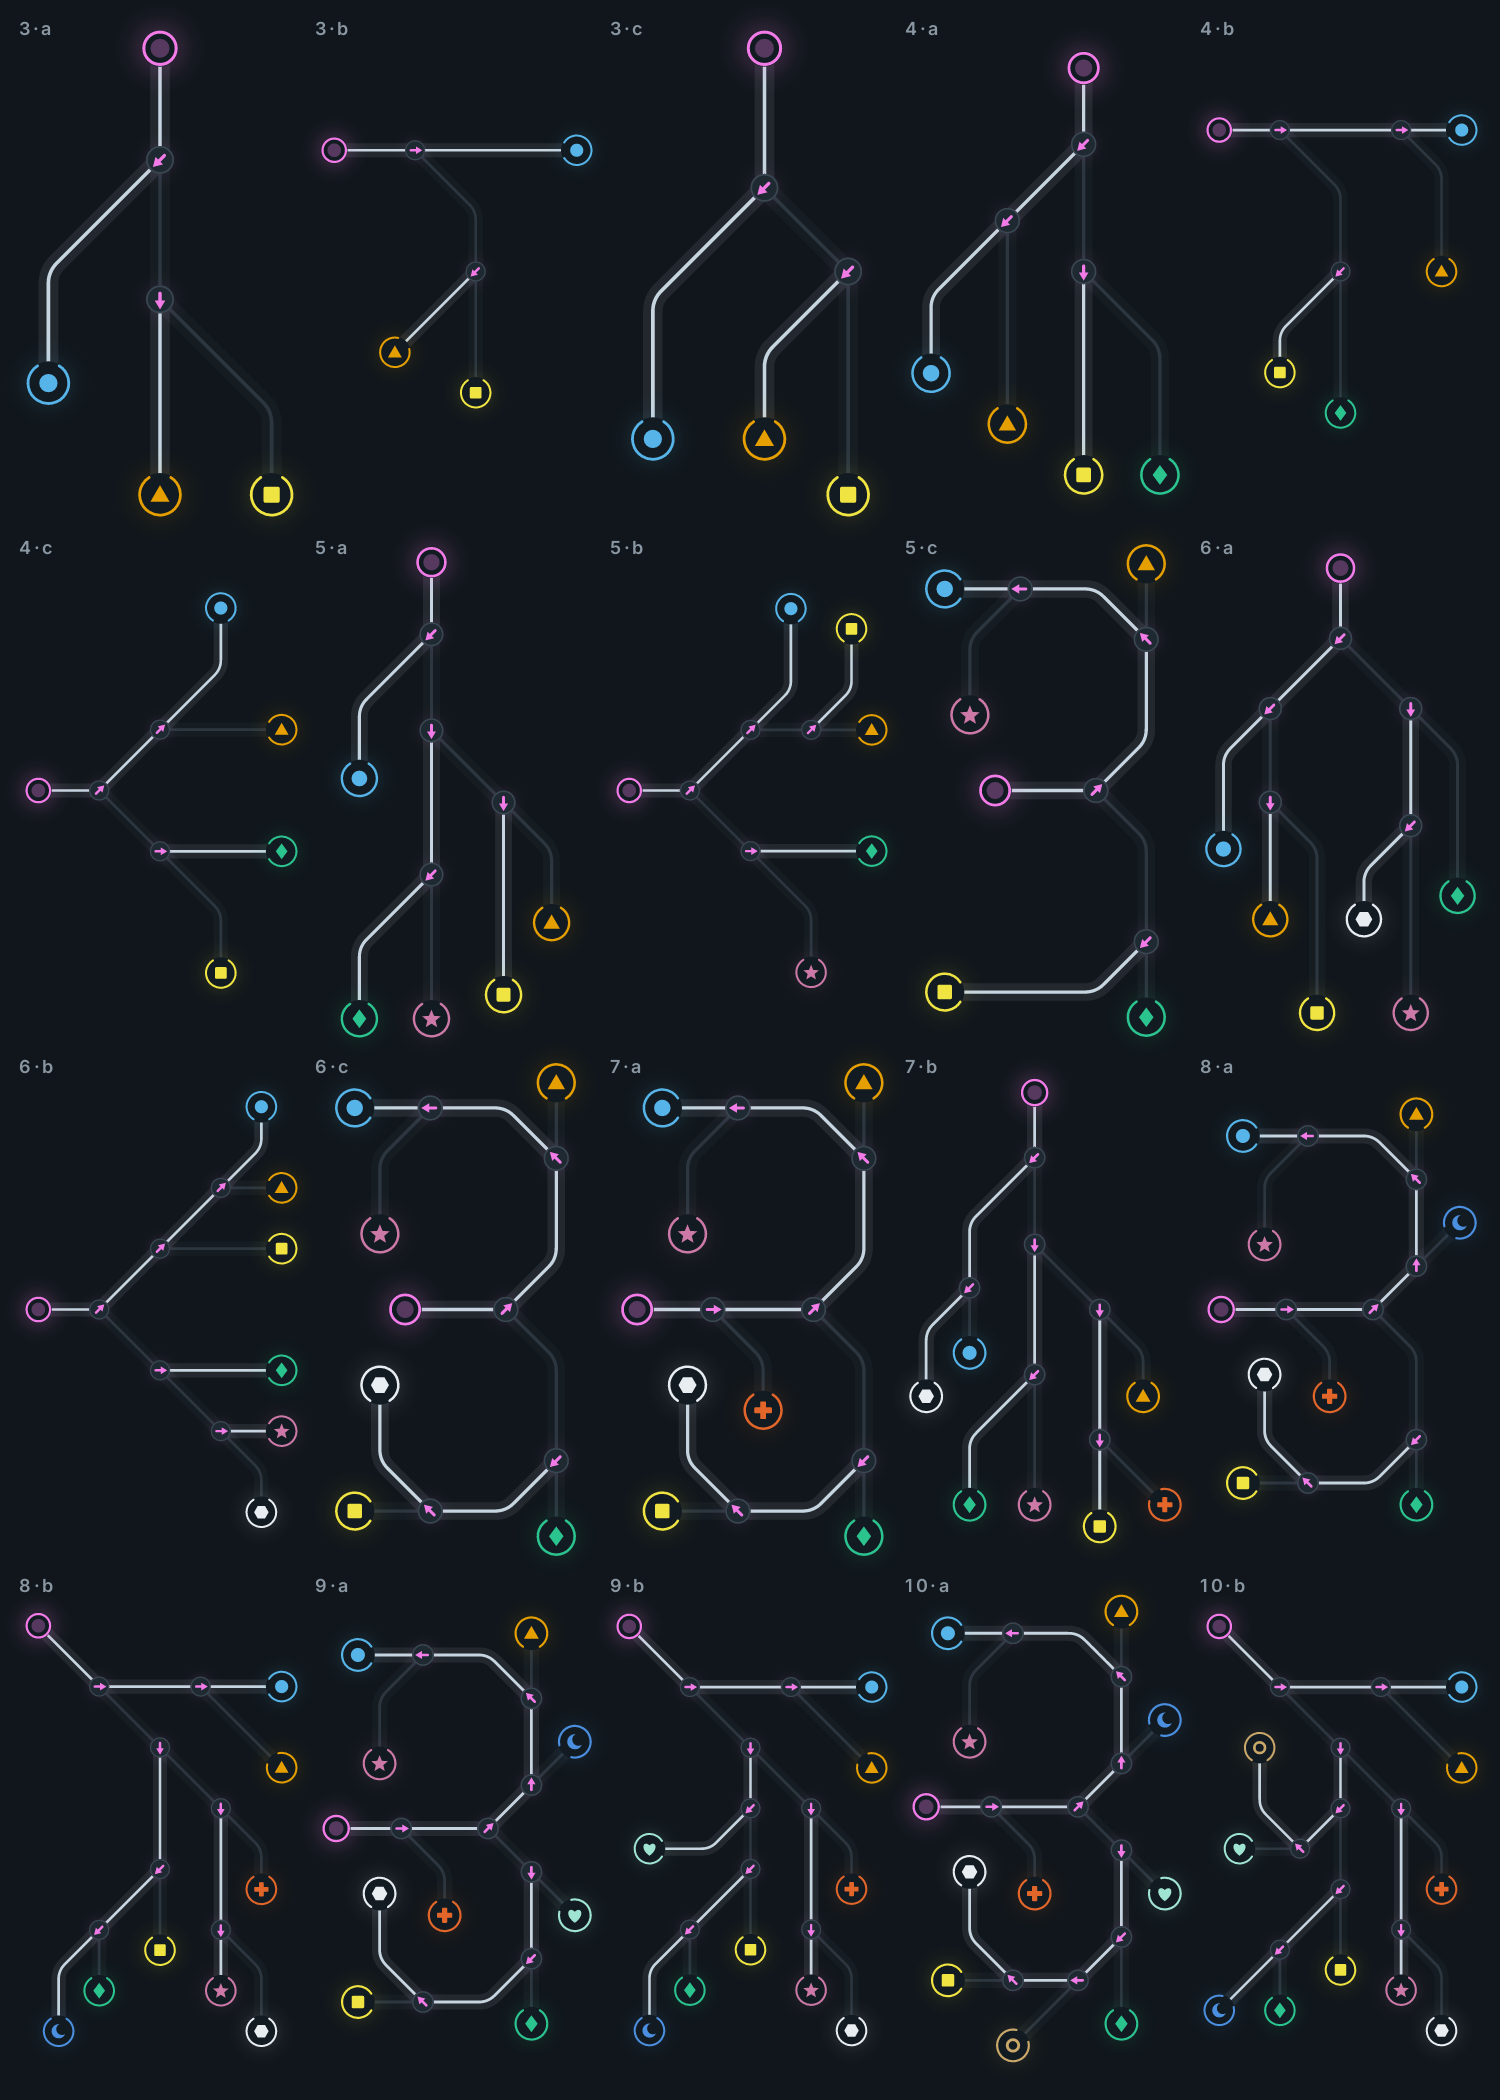
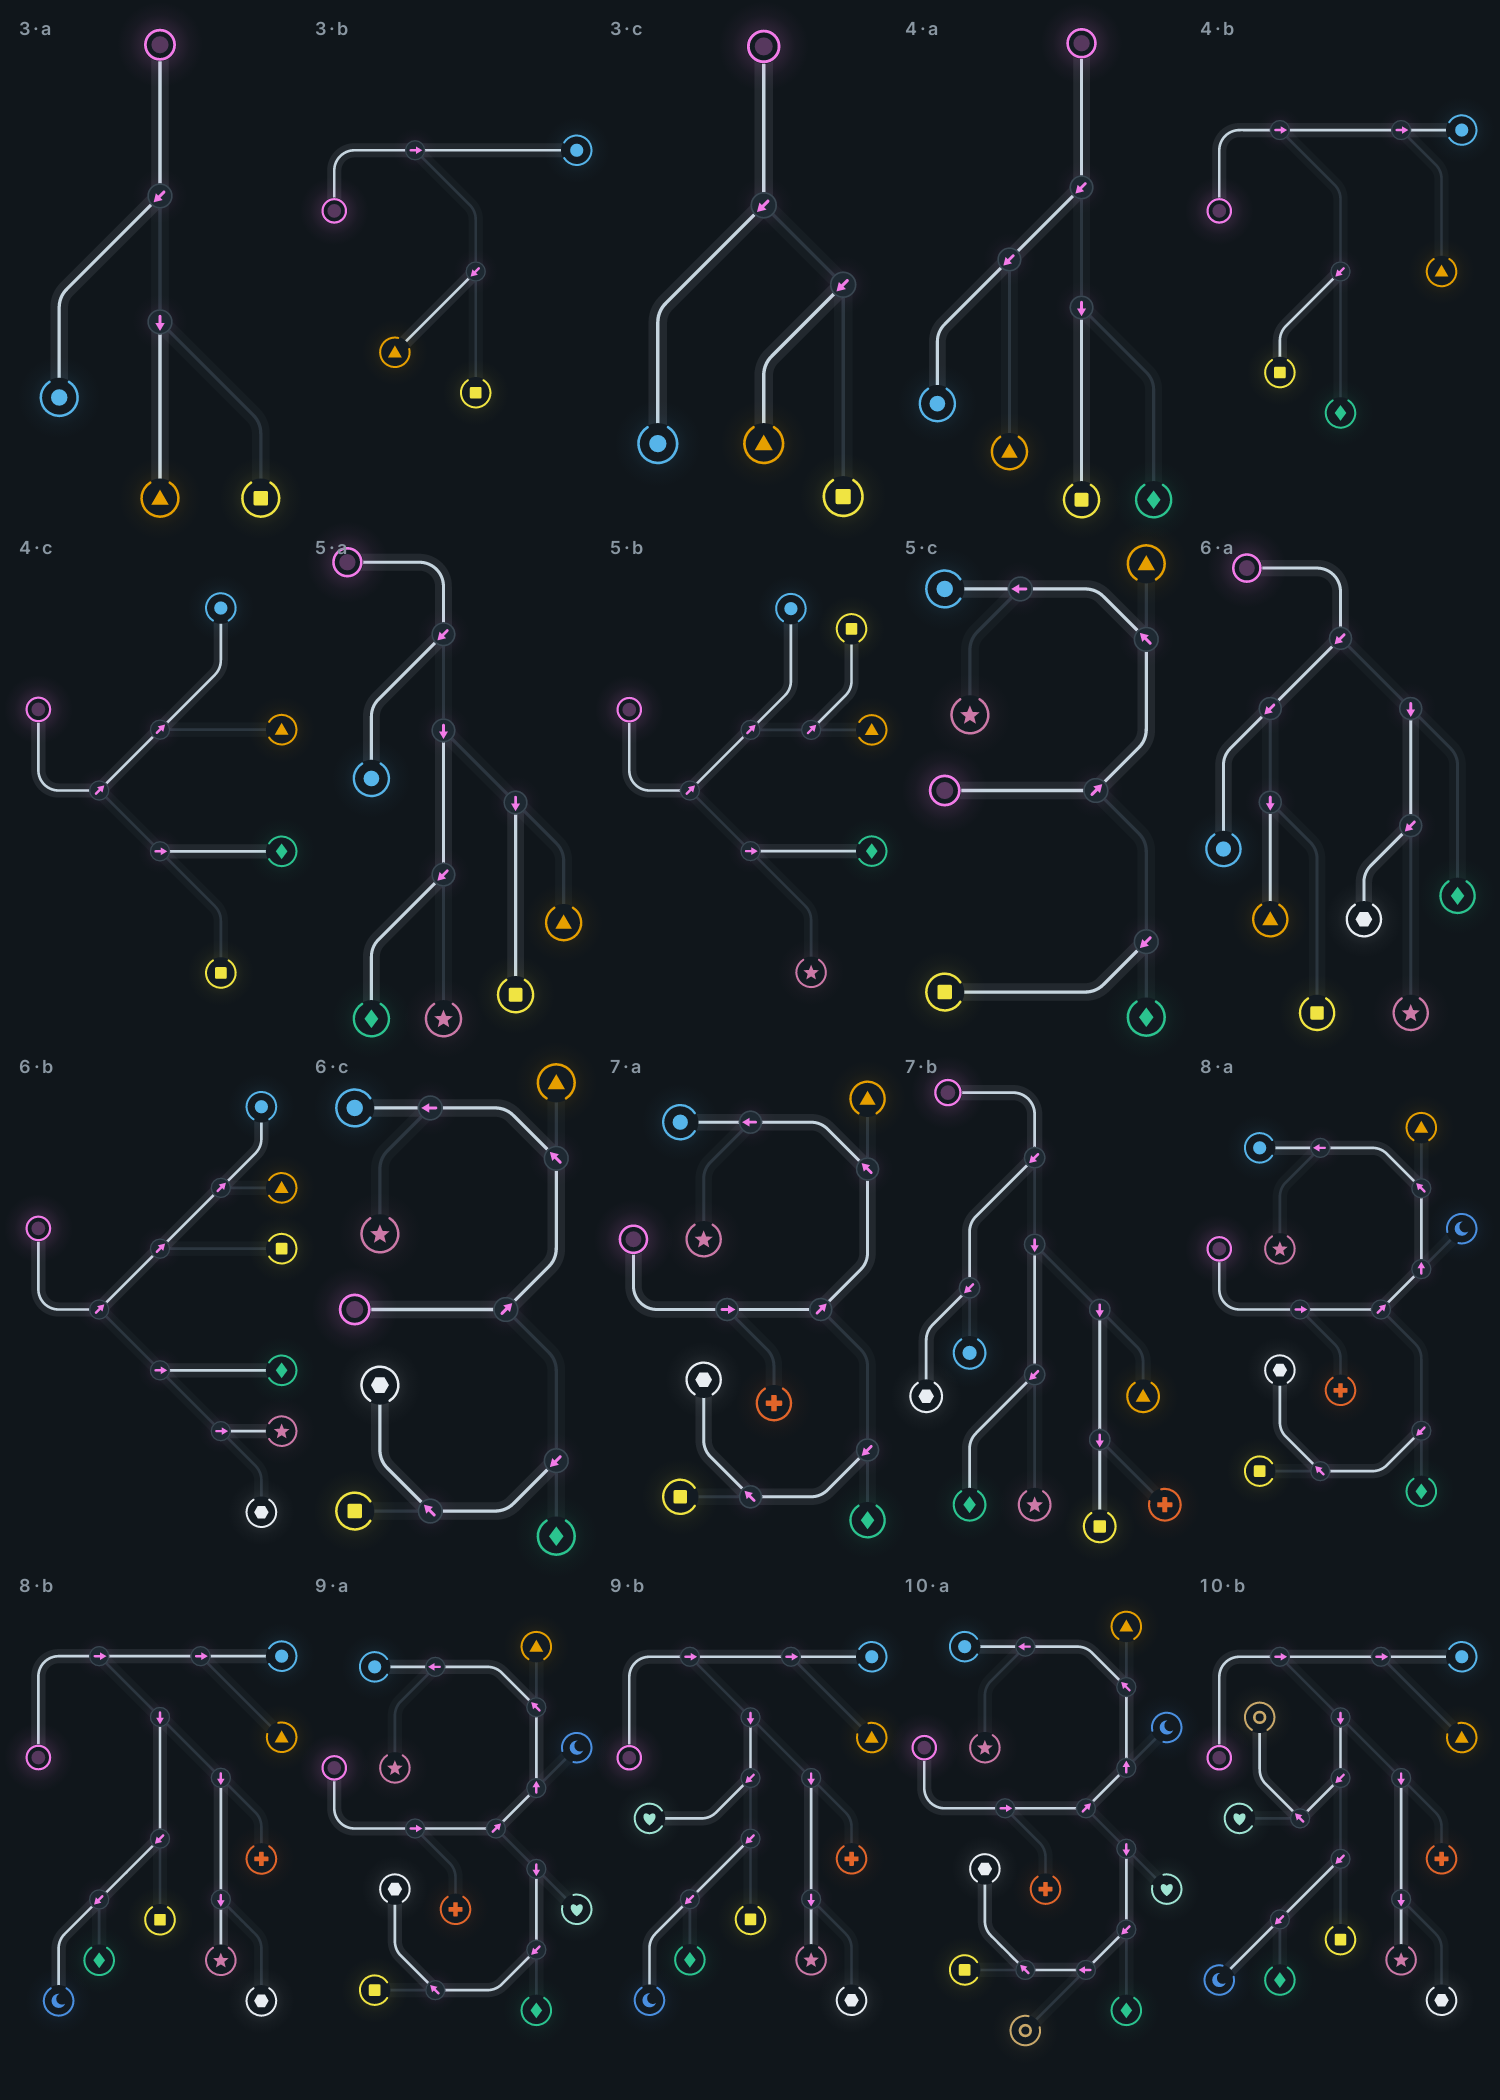
thinkr: Weichen mit Anlaufstrecke >= 6 Felder bis zur ersten Weiche

diff --git a/apps/thinkr/src/main/kotlin/solutions/xapient/thinkr/domain/switches/NetBook.kt b/apps/thinkr/src/main/kotlin/solutions/xapient/thinkr/domain/switches/NetBook.kt
@@ -10,6 +10,8 @@ object NetBook {
             ......|......
             ......|......
             ......|......
+            ......|......
+            ......|......
             ......S......
             ...../|......
             ..../.|......
@@ -26,10 +28,10 @@ object NetBook {
             """.trimIndent().lines(),
             // 3b
             """
-            P---S-------A
-            .....\.......
-            ......\......
-            .......o.....
+            o---S-------A
+            |....\.......
+            |.....\......
+            P......o.....
             .......|.....
             .......|.....
             .......S.....
@@ -43,6 +45,7 @@ object NetBook {
             // 3c
             """
             ......P......
+            ......|......
             ......|......
             ......|......
             ......|......
@@ -67,6 +70,9 @@ object NetBook {
             .......P.....
             .......|.....
             .......|.....
+            .......|.....
+            .......|.....
+            .......|.....
             .......S.....
             ....../|.....
             ...../.|.....
@@ -84,11 +90,11 @@ object NetBook {
             """.trimIndent().lines(),
             // 4b
             """
-            P--S-----S--A
-            ....\.....\..
-            .....\.....o.
-            ......o....|.
-            ......|....|.
+            o--S-----S--A
+            |...\.....\..
+            |....\.....o.
+            |.....o....|.
+            P.....|....|.
             ......|....|.
             ......|....|.
             ......S....B.
@@ -107,11 +113,11 @@ object NetBook {
             .........|...
             .........o...
             ......../....
-            ......./.....
-            ......S-----B
-            ...../.......
-            ..../........
-            P--S.........
+            P....../.....
+            |.....S-----B
+            |..../.......
+            |.../........
+            o--S.........
             ....\........
             .....\.......
             ......S-----D
@@ -126,7 +132,7 @@ object NetBook {
         5 to listOf(
             // 5a
             """
-            ......P......
+            ..P---o......
             ......|......
             ......|......
             ......S......
@@ -154,11 +160,11 @@ object NetBook {
             ........|..|.
             ........|..|.
             ........o..o.
-            ......./../..
-            ......S--S--B
-            ...../.......
-            ..../........
-            P--S.........
+            P....../../..
+            |.....S--S--B
+            |..../.......
+            |.../........
+            o--S.........
             ....\........
             .....\.......
             ......S-----D
@@ -180,7 +186,7 @@ object NetBook {
             ...E......|..
             ..........o..
             ........./...
-            ....P---S....
+            ..P-----S....
             .........\...
             ..........o..
             ..........|..
@@ -195,7 +201,7 @@ object NetBook {
         6 to listOf(
             // 6a
             """
-            ......P......
+            ..P---o......
             ......|......
             ......|......
             ......S......
@@ -224,11 +230,11 @@ object NetBook {
             ........../..
             .........S--B
             ......../....
-            ......./.....
-            ......S-----C
-            ...../.......
-            ..../........
-            P--S.........
+            P....../.....
+            |.....S-----C
+            |..../.......
+            |.../........
+            o--S.........
             ....\........
             .....\.......
             ......S-----D
@@ -251,7 +257,7 @@ object NetBook {
             ...E......|..
             ..........o..
             ........./...
-            ....P---S....
+            ..P-----S....
             .........\...
             ..........o..
             ...F......|..
@@ -272,10 +278,10 @@ object NetBook {
             ...o......S..
             ...|......|..
             ...|......|..
-            ...E......|..
-            ..........o..
-            ........./...
-            .P--S---S....
+            P..E......|..
+            |.........o..
+            |......../...
+            o---S---S....
             .....\...\...
             ......o...o..
             ...F..|...|..
@@ -288,7 +294,7 @@ object NetBook {
             """.trimIndent().lines(),
             // 7b
             """
-            ......P......
+            ..P---o......
             ......|......
             ......|......
             ......S......
@@ -320,10 +326,10 @@ object NetBook {
             ...o......S..
             ...|......|..
             ...|......|.H
-            ...E......|/.
-            ..........S..
-            ........./...
-            .P--S---S....
+            P..E......|/.
+            |.........S..
+            |......../...
+            o---S---S....
             .....\...\...
             ......o...o..
             ...F..|...|..
@@ -336,15 +342,12 @@ object NetBook {
             """.trimIndent().lines(),
             // 8b
             """
-            P............
-            .\...........
-            ..\..........
-            ...S----S---A
-            ....\....\...
-            .....\....\..
-            ......S....\.
-            ......|\....B
-            ......|.\....
+            o--S----S---A
+            |...\....\...
+            |....\....\..
+            |.....S....\.
+            |.....|\....B
+            P.....|.\....
             ......|..S...
             ......|..|\..
             ......|..|.o.
@@ -368,10 +371,10 @@ object NetBook {
             ...o......S..
             ...|......|..
             ...|......|.H
-            ...E......|/.
-            ..........S..
-            ........./...
-            .P--S---S....
+            P..E......|/.
+            |.........S..
+            |......../...
+            o---S---S....
             .....\...\...
             ......o...S..
             ...F..|...|\.
@@ -384,15 +387,12 @@ object NetBook {
             """.trimIndent().lines(),
             // 9b
             """
-            P............
-            .\...........
-            ..\..........
-            ...S----S---A
-            ....\....\...
-            .....\....\..
-            ......S....\.
-            ......|\....B
-            ......|.\....
+            o--S----S---A
+            |...\....\...
+            |....\....\..
+            |.....S....\.
+            |.....|\....B
+            P.....|.\....
             ......S..S...
             ...../|..|\..
             .I--o.|..|.o.
@@ -416,10 +416,10 @@ object NetBook {
             ...o......S..
             ...|......|..
             ...|......|.H
-            ...E......|/.
-            ..........S..
-            ........./...
-            .P--S---S....
+            P..E......|/.
+            |.........S..
+            |......../...
+            o---S---S....
             .....\...\...
             ......o...S..
             ...F..|...|\.
@@ -434,15 +434,12 @@ object NetBook {
             """.trimIndent().lines(),
             // 10b
             """
-            P............
-            .\...........
-            ..\..........
-            ...S----S---A
-            ....\....\...
-            .....\....\..
-            ..J...S....\.
-            ..|...|\....B
-            ..|...|.\....
+            o--S----S---A
+            |...\....\...
+            |....\....\..
+            |.J...S....\.
+            |.|...|\....B
+            P.|...|.\....
             ..o...S..S...
             ...\./|..|\..
             .I--S.|..|.o.

diff --git a/apps/thinkr/src/test/kotlin/solutions/xapient/thinkr/domain/switches/SwitchesGameTest.kt b/apps/thinkr/src/test/kotlin/solutions/xapient/thinkr/domain/switches/SwitchesGameTest.kt
@@ -90,6 +90,21 @@ class SwitchesGameTest {
         assertEquals(1.0 * SwitchesRules.speed(1), s.progress(b), 1e-6)
     }
 
+    // Fairness: von der Abfahrt bis zur ersten Weiche bleibt Zeit zum Schauen und Stellen, in jedem Netz jeder Stufe
+    @Test fun timeToFirstSwitch() {
+        for (level in 1..SwitchesRules.MAX_LEVEL) {
+            val speed = SwitchesGame.start(0, level, false).speed
+            val min = if (level == 1) 2_500.0 else 1_800.0
+            NetBook.plans.getValue(SwitchesRules.gates(level)).forEachIndexed { i, rows ->
+                for (v in 0 until NetBook.VARIANTS) {
+                    val net = Net.parse(rows, v)
+                    val ms = net.edges[net.portalEdge].track.length / speed
+                    assertTrue("Stufe $level Netz $i/v$v: $ms ms", ms >= min)
+                }
+            }
+        }
+    }
+
     // Nur eine Perle: alle Weichen auf das Tor gate stellen und ankommen lassen
     private fun lone(seed: Long, gate: (Bead) -> Int): Pair<SwitchesState, Bead> {
         var s = SwitchesGame.tick(SwitchesGame.start(seed, 2, false), 700).let { it.copy(nextAt = 1e12) }

diff --git a/apps/thinkr/SPEC.md b/apps/thinkr/SPEC.md
@@ -45,8 +45,8 @@ Erster Release: 5 Spiele (Echo, Weichen, Sternbild, Tinte, Schwarm), die übrige
 - Takt adaptiv in der Runde: Startabstand 3,8 s × 0,97 je Stufe; nach 3 richtigen Ankünften in Folge −8 %, nach jeder Fehlleitung +15 % (0,9–6 s). Erste Abfahrt nach 0,6 s, keine Abfahrt in den letzten 2 s. Höchstens 2 gleiche Ziele hintereinander.
 - Stufe nach der Runde: Trefferquote ≥ 90 % +1, ≥ 70 % gleich, sonst −1; unter 6 Ankünften bleibt sie. Kein Aufwärm-Abschlag (die Stufe ändert sich nur um 1 je Runde), aufgewärmt wird über den lockeren Takt am Rundenbeginn.
 - Gemächlich: Perlen ⅔ so schnell, Takt × 1,5.
-- Netze: handgebaute Sammlung als Zeichen-Raster (`NetBook`), 3 je Torzahl 3–6, 2 je Torzahl 7–10, je 4 Varianten (gespiegelt, gekippt). Im Querformat wird das Netz gedreht, wenn es dadurch größer wird. Farben und Weichenstellung je Runde zufällig.
-- Tests: jedes Netz ist ein Baum (keine Sackgasse, keine Schleife), jedes Tor über genau eine Stellung erreichbar, nur 0/45/90°, Knoten ≥ 2,8 Felder auseinander, Tore ≥ 1,9 Felder von fremden Schienen. Ereignisse laufen streng nach Zeit (Ergebnis unabhängig von der Bildrate). Ein perfekter Spieler bringt auf jeder Stufe alle Perlen heim.
+- Netze: handgebaute Sammlung als Zeichen-Raster (`NetBook`), 3 je Torzahl 3–6, 2 je Torzahl 7–10, je 4 Varianten (gespiegelt, gekippt). Anlaufstrecke Portal → erste Weiche ≥ 6 Felder (Stufe 1 ≥ 2,5 s, jede Stufe ≥ 1,8 s Zeit bis zur ersten Weiche). Im Querformat wird das Netz gedreht, wenn es dadurch größer wird. Farben und Weichenstellung je Runde zufällig.
+- Tests: jedes Netz ist ein Baum (keine Sackgasse, keine Schleife), jedes Tor über genau eine Stellung erreichbar, nur 0/45/90°, Knoten ≥ 2,8 Felder auseinander, Tore ≥ 1,9 Felder von fremden Schienen, Zeit bis zur ersten Weiche (s. o.). Ereignisse laufen streng nach Zeit (Ergebnis unabhängig von der Bildrate). Ein perfekter Spieler bringt auf jeder Stufe alle Perlen heim.
 - Optik: gestellter Abgang hell, der andere gedimmt; Weichenpfeil und Schienen schnappen mit Feder um. Tor = Ring mit Öffnung zur Schiene und Form innen; richtig schluckt es die Perle mit Ring-Welle, falsch wackelt es mit Bernstein-Ring und die Perle verpufft grau. Perlen mit Lichtschweif und kurzem Federn nach einer Weiche. Portal pulst bei jeder Abfahrt. Keine Züge, Bahnhöfe, Schwellen oder Bäume.
 - Alle Bewegungen hängen nur an der Spielzeit: in der Pause steht alles still, auch die Federn.
 - Haptik: Weiche `press()`, richtige Ankunft und Kettenaufstieg `tick()` (entprellt), Rundenende `confirm()`. Fehler nur optisch.
